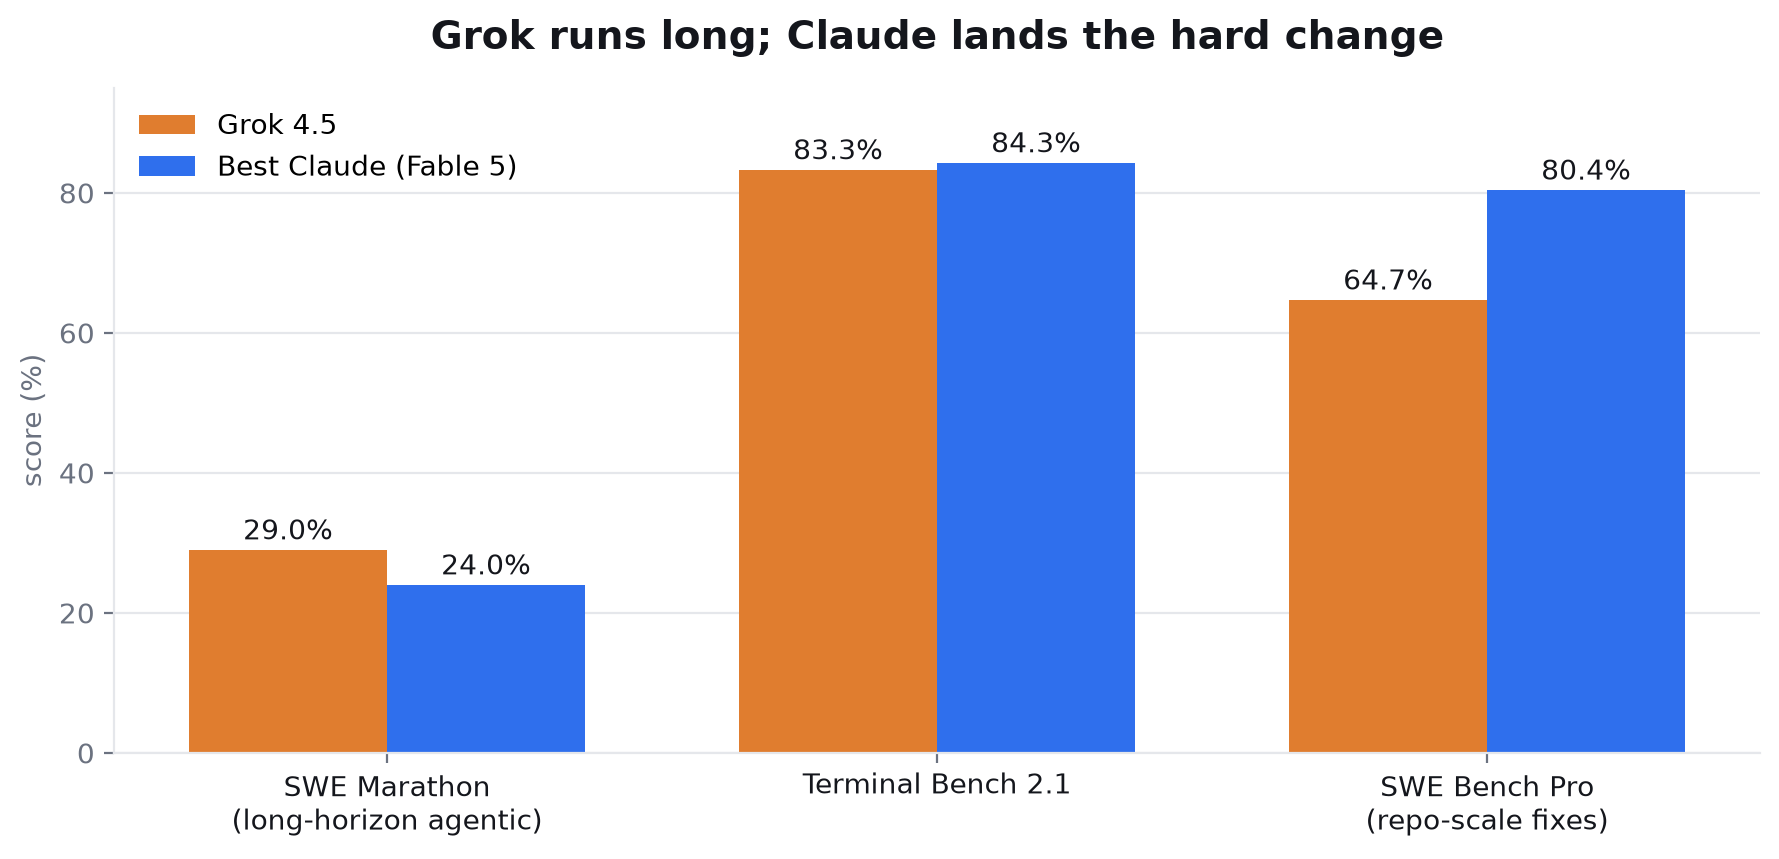
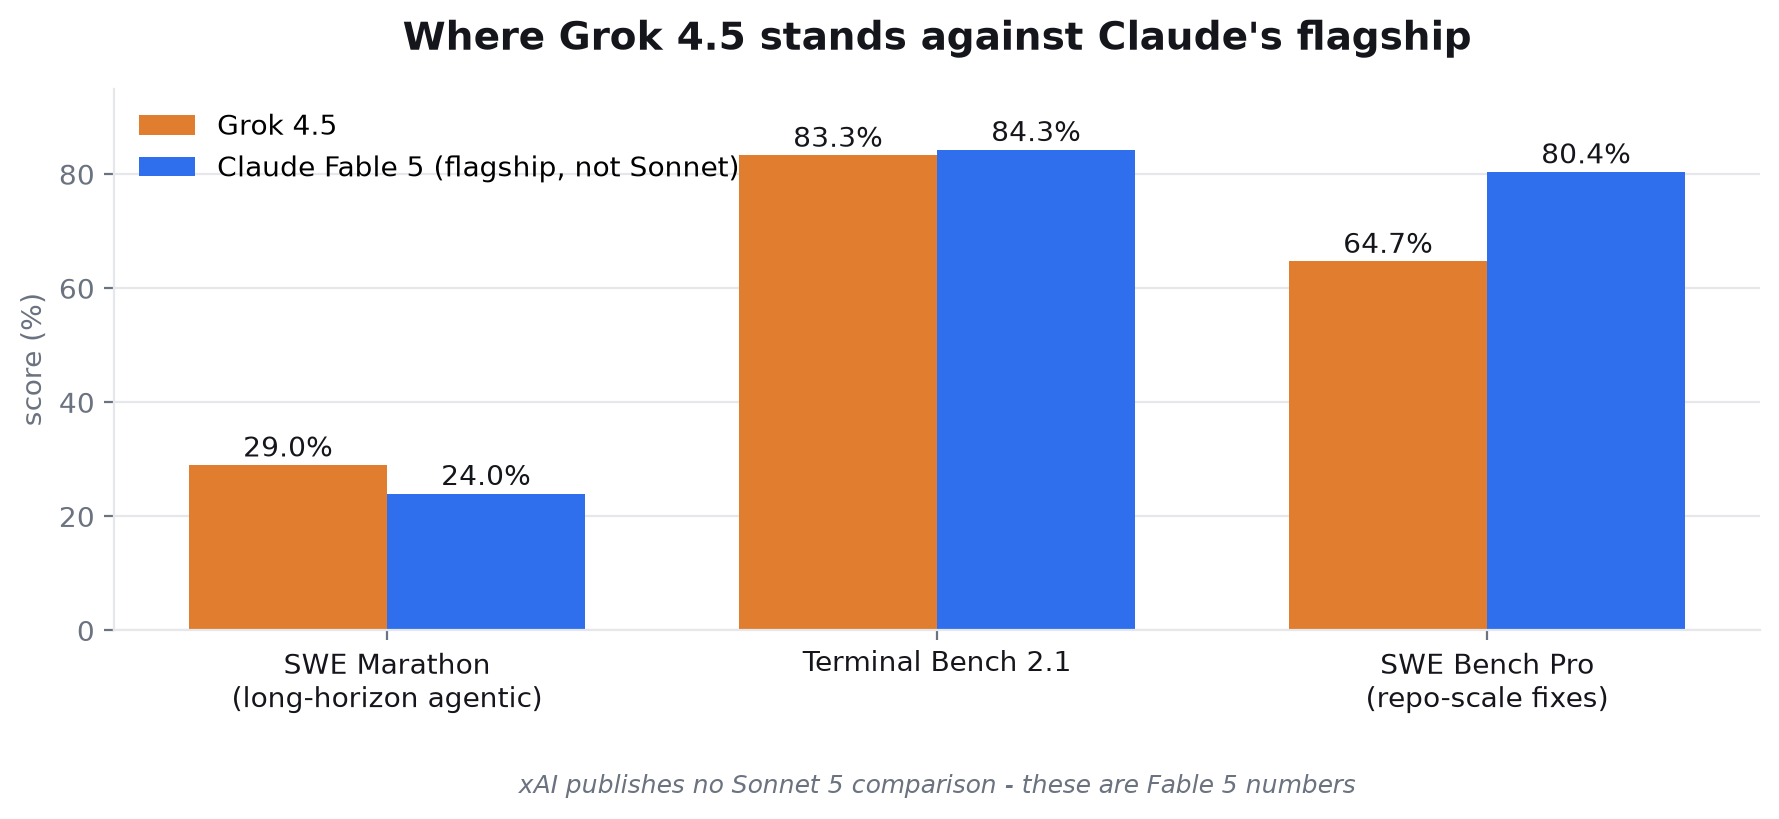
fix(posts): stop attributing Fable 5 results to "Claude" in a Sonnet comparison
The benchmark section used xAI-published Fable 5 numbers but described them as
"Claude", which smuggled the flagship's strength into a mid-tier comparison. The
decision framework then recommended "Claude" for repo-scale work on the strength
of a number Sonnet never scored.

Now explicit throughout: Grok 4.5 matches Sonnet 5's tier and undercuts it on
price; it does not match Fable 5, which is ~6 index points clear of both. Chart
title, legend and alt text corrected to name the specific model.

diff --git a/posts/2026-07-18-sonnet-5-vs-grok-4-5-one-line/index.html b/posts/2026-07-18-sonnet-5-vs-grok-4-5-one-line/index.html
@@ -27,17 +27,17 @@
 
 <img src="https://raw.githubusercontent.com/ylnhari/blog/main/posts/2026-07-18-sonnet-5-vs-grok-4-5-one-line/images/01-intelligence-vs-price.png" alt="Two bar charts. Left: Artificial Analysis Intelligence Index — Claude Sonnet 5 at 53.4 and Grok 4.5 at 53.8, just 0.4 points apart. Right: price per million output tokens — Sonnet at $15 and Grok at $6, a 2.5x gap.">
 
-<h2>Where each one actually wins</h2>
+<h2>The tier this actually settles</h2>
 
-<p>Aggregate scores hide the shape of these models, and the per-benchmark picture is genuinely split.</p>
+<p>One clarification the headline numbers demand, because it changes the decision: matching Sonnet 5 is not the same as matching Claude's best. "Claude" is a line of four models, not one.</p>
 
-<p>xAI's own launch numbers are refreshingly unflattering in places. Grok 4.5 <strong>leads SWE Marathon at 29.0%</strong>, ahead of Opus 4.8 (26.0%) and Fable 5 (24.0%) &mdash; long-horizon agentic work is its strong suit. It is effectively tied at the top of <strong>Terminal Bench 2.1 (83.3%</strong> against Fable 5's 84.3%). But on <strong>SWE Bench Pro it lands at 64.7%</strong>, well behind Fable 5's 80.4% and Opus 4.8's 69.2%. Different harnesses, different answers.</p>
+<p>Claude's flagship, Fable 5, scores <strong>59.9</strong> on the same index &mdash; roughly six points clear of both models here. Sonnet 5 is Anthropic's mid-tier, built for steady production work rather than peak scores. So what Grok 4.5 has done is draw level with <em>that</em> tier, and undercut it on price. It has not drawn level with the top of Claude's line.</p>
 
-<p>Claude's strength is the opposite shape: the Claude line dominates the repo-scale software-engineering benchmarks, and Sonnet is the tier built for steady production work rather than peak scores.</p>
+<p>xAI's own launch benchmarks show exactly where the ceiling sits, and they are refreshingly unflattering in places. Against <strong>Fable 5</strong> &mdash; not Sonnet &mdash; Grok 4.5 leads <strong>SWE Marathon 29.0% to 24.0%</strong>, the long-horizon agentic test. It is effectively tied on <strong>Terminal Bench 2.1, 83.3% to 84.3%</strong>. But on <strong>SWE Bench Pro it trails badly, 64.7% to 80.4%</strong> &mdash; repo-scale changes are where the flagship pulls away.</p>
 
-<img src="https://raw.githubusercontent.com/ylnhari/blog/main/posts/2026-07-18-sonnet-5-vs-grok-4-5-one-line/images/02-where-each-wins.png" alt="Grouped bar chart across three benchmarks. Grok 4.5 leads SWE Marathon 29.0 percent to Claude's 24.0. Terminal Bench 2.1 is a near-tie, 83.3 versus 84.3. Claude leads SWE Bench Pro decisively, 80.4 percent to 64.7.">
+<img src="https://raw.githubusercontent.com/ylnhari/blog/main/posts/2026-07-18-sonnet-5-vs-grok-4-5-one-line/images/02-where-each-wins.png" alt="Grouped bar chart comparing Grok 4.5 against Claude Fable 5, Anthropic's flagship, across three benchmarks. Grok 4.5 leads SWE Marathon 29.0 percent to 24.0. Terminal Bench 2.1 is a near-tie, 83.3 versus 84.3. Fable 5 leads SWE Bench Pro decisively, 80.4 percent to 64.7. These are flagship numbers, not Sonnet 5's.">
 
-<blockquote>Grok 4.5 is better at running long; Claude is better at getting the hard single change right. Neither is "smarter".</blockquote>
+<blockquote>Grok 4.5 competes with Sonnet, not with Claude's best. Within that tier it is the better deal; above it, the tier is the thing you are buying.</blockquote>
 
 <p>There is a second cost lever that rarely makes headlines. xAI reports Grok 4.5 completing SWE Bench Pro tasks in about <strong>15,954 output tokens on average against Opus 4.8's 67,020</strong> &mdash; roughly 4.2x fewer. Token efficiency compounds with the per-token price, so on verbose agentic workloads the real-world gap is wider than the sticker 2.5x.</p>
 
@@ -59,7 +59,7 @@
 
 <ol>
 <li><strong>High-volume or long-running agentic work</strong> &mdash; Grok 4.5. It leads the long-horizon benchmark, costs 2.5x less per output token, and uses fewer of them. The savings compound twice.</li>
-<li><strong>Hard, repo-scale changes where correctness is expensive</strong> &mdash; Claude. The gap on SWE Bench Pro is real and larger than the index suggests.</li>
+<li><strong>Hard, repo-scale changes where correctness is expensive</strong> &mdash; Claude Fable 5, not Sonnet. The 80.4% to 64.7% gap on SWE Bench Pro belongs to the flagship; buying Sonnet does not buy you that number.</li>
 <li><strong>Anything parsing messy real-world data</strong> &mdash; trust neither by default. Both are strong here and both can fail silently; feed them your ugliest inputs before shipping.</li>
 <li><strong>Everything else</strong> &mdash; take the cheaper token. At 0.4 index points apart, paying 2.5x for output needs a reason more specific than "it's the better model".</li>
 </ol>

diff --git a/posts/2026-07-18-sonnet-5-vs-grok-4-5-one-line/charts/make_charts.py b/posts/2026-07-18-sonnet-5-vs-grok-4-5-one-line/charts/make_charts.py
@@ -93,7 +93,7 @@ def chart_where_each_wins():
     w = 0.36
     ax.bar([i - w / 2 for i in x], grok, width=w, color=GROK, label="Grok 4.5")
     ax.bar([i + w / 2 for i in x], best_claude, width=w, color=CLAUDE,
-           label="Best Claude (Fable 5)")
+           label="Claude Fable 5 (flagship, not Sonnet)")
 
     for i, (g, c) in enumerate(zip(grok, best_claude)):
         ax.text(i - w / 2, g + 1.5, f"{g}%", ha="center", fontsize=10, color=INK)
@@ -104,8 +104,10 @@ def chart_where_each_wins():
     ax.set_ylim(0, 95)
     ax.set_ylabel("score (%)", color=MUTED, fontsize=10)
     ax.legend(frameon=False, fontsize=10, loc="upper left")
-    ax.set_title("Grok runs long; Claude lands the hard change",
+    ax.set_title("Where Grok 4.5 stands against Claude's flagship",
                  fontsize=14, fontweight="bold", color=INK, pad=14)
+    ax.text(0.5, -0.30, "xAI publishes no Sonnet 5 comparison - these are Fable 5 numbers",
+            transform=ax.transAxes, ha="center", fontsize=9, color=MUTED, style="italic")
     fig.tight_layout()
     fig.savefig(os.path.join(OUT, "02-where-each-wins.png"),
                 bbox_inches="tight", facecolor="white")